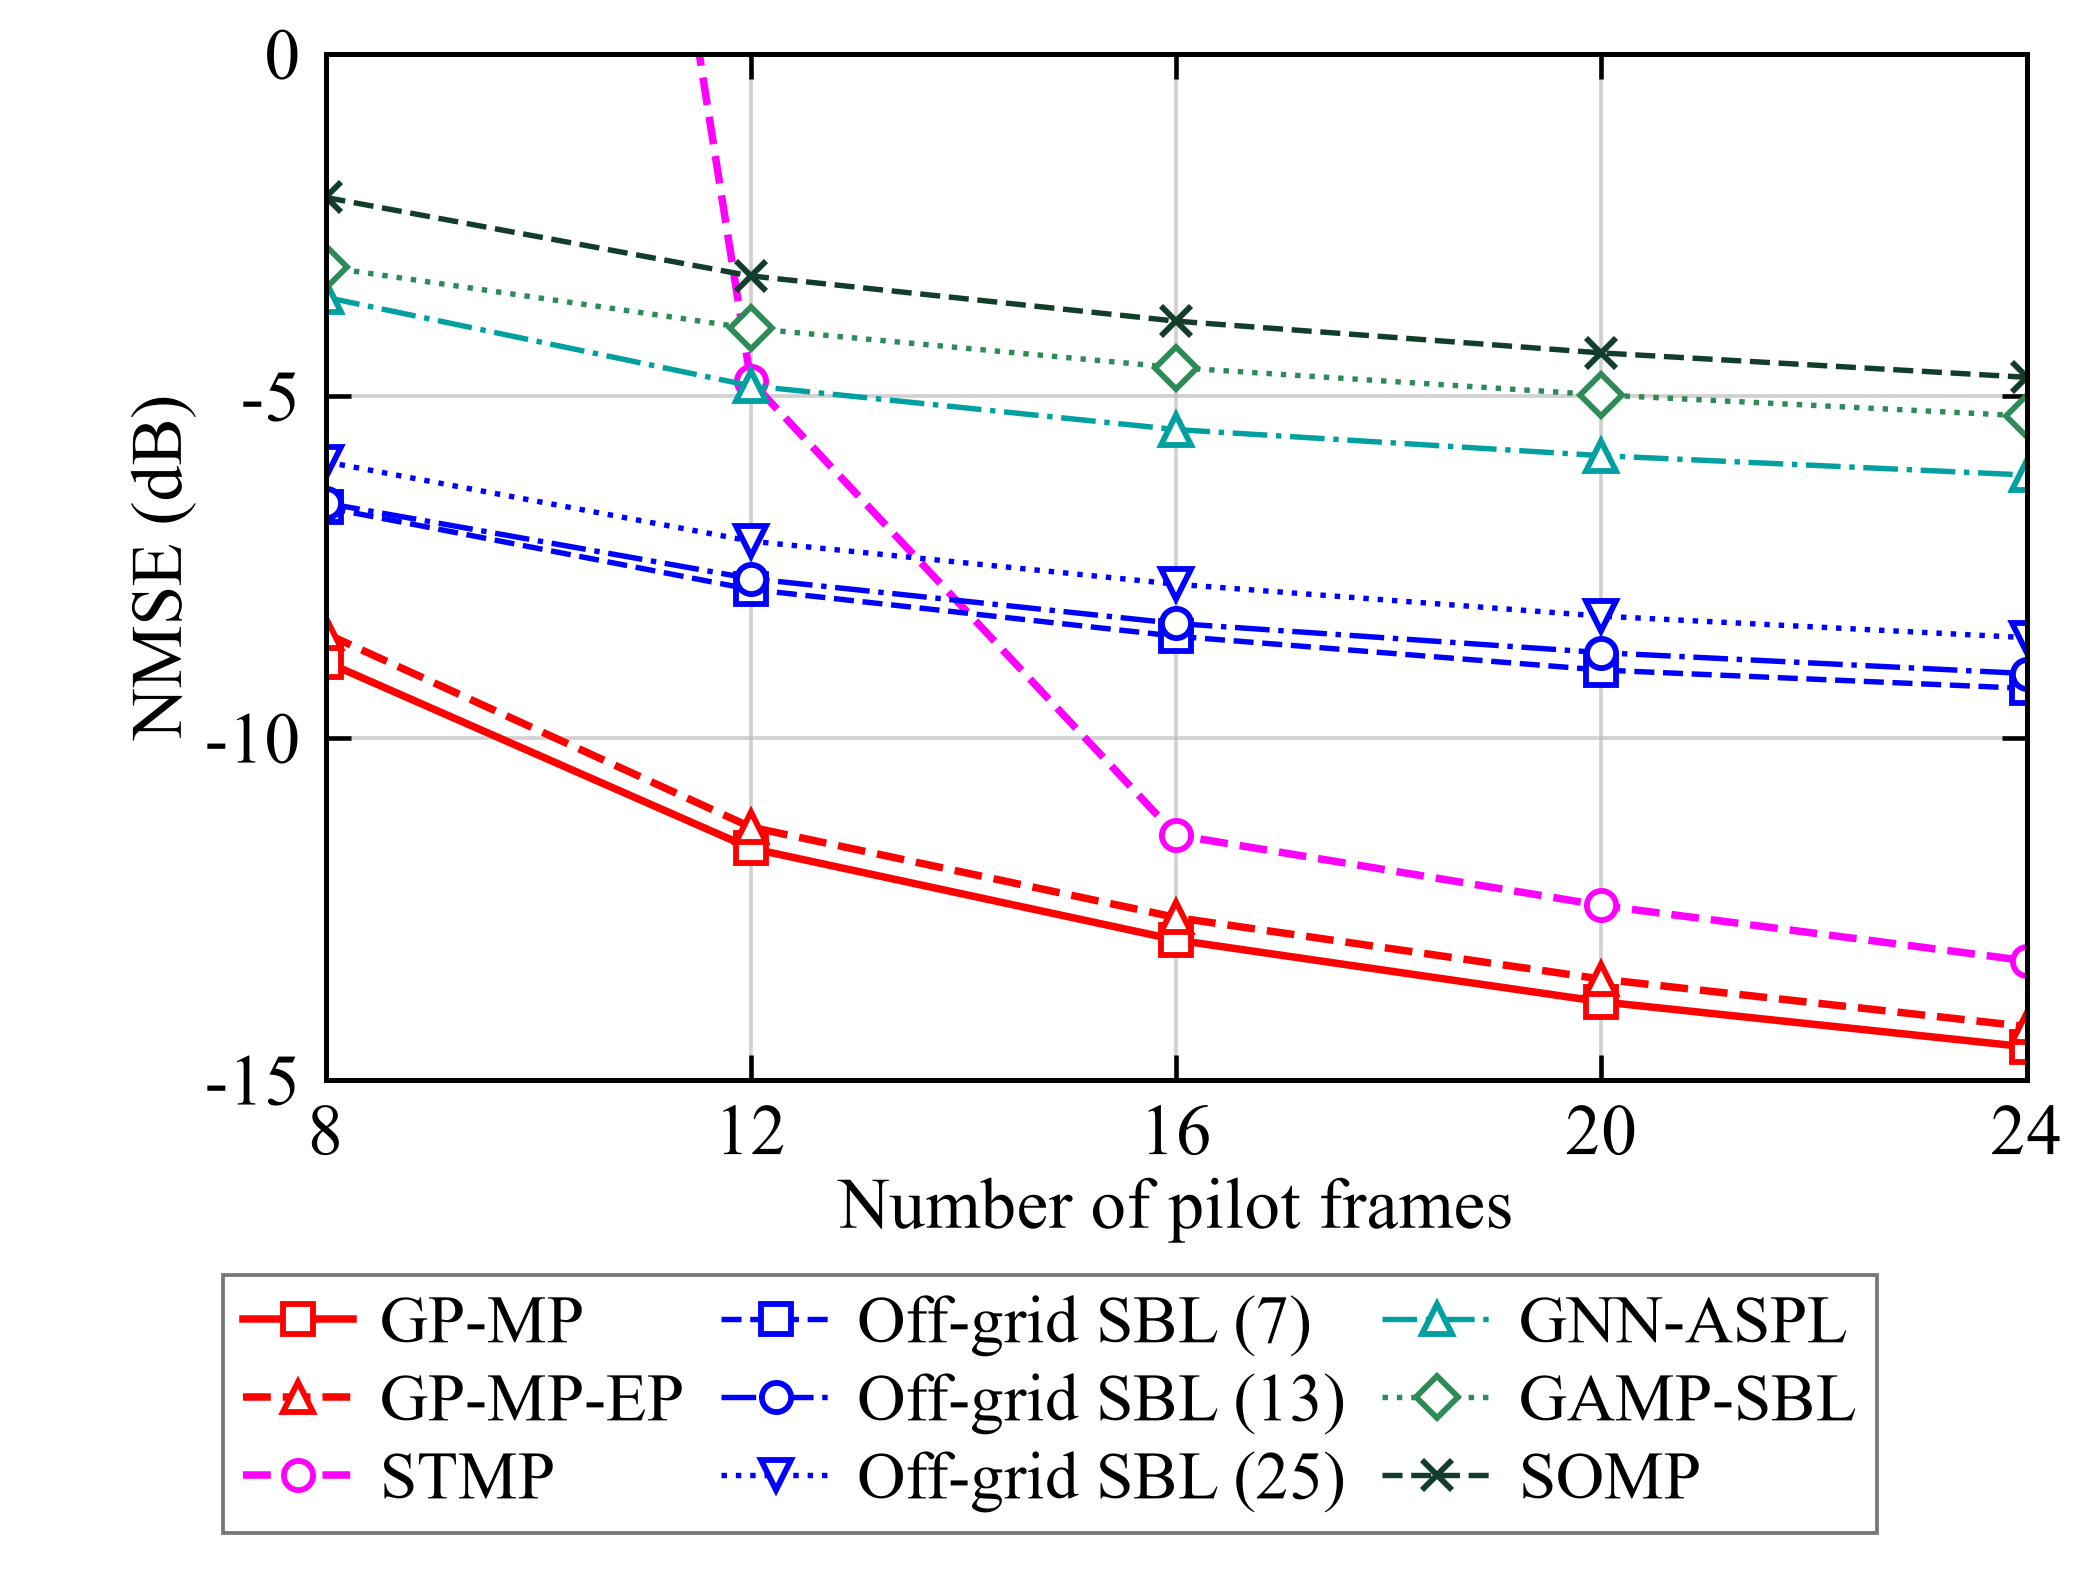
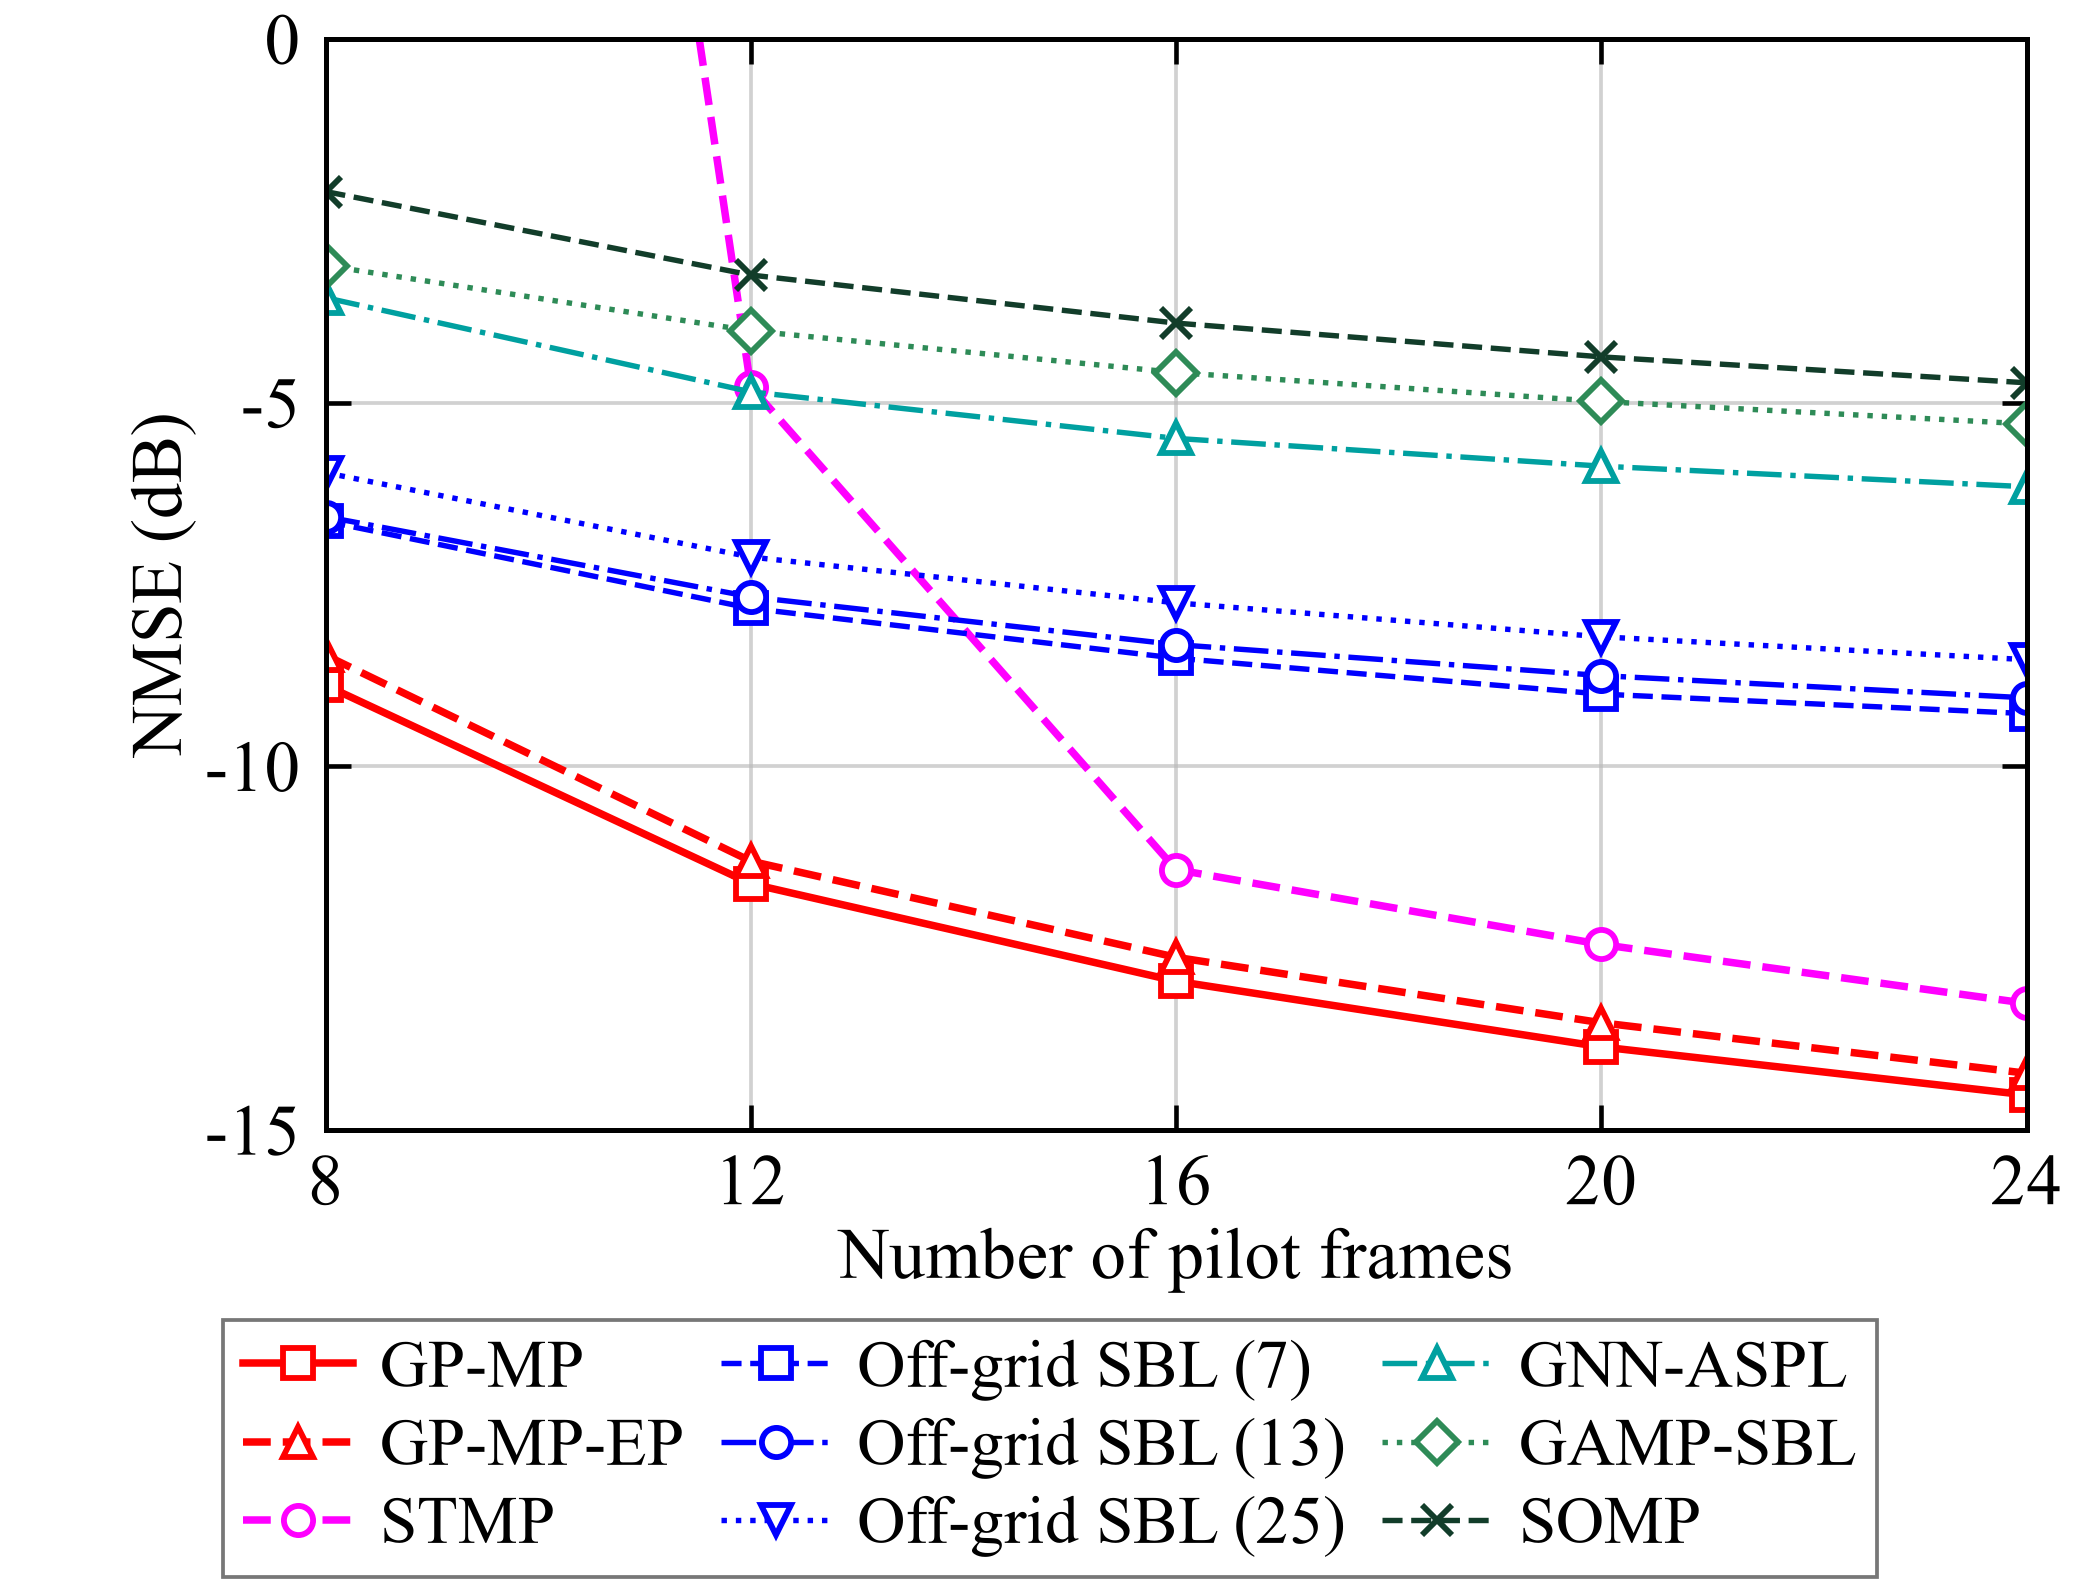
Align sweep figure spacing with main SNR

diff --git a/result/pilot_frames/latest_20261109/render.py b/result/pilot_frames/latest_20261109/render.py
@@ -37,9 +37,9 @@ def main():
     for legend in list(fig.legends):
         legend.remove()
     # Match the main SNR figure's three-column legend and handle spacing.
-    fig.subplots_adjust(bottom=.85/2.65)
+    fig.subplots_adjust(left=.155, right=.965, bottom=.28925023748689727, top=.9754716981132076)
     fig.legend(*ax.get_legend_handles_labels(),loc='lower center',
-               bbox_to_anchor=(.5,.015),ncol=3,
+               bbox_to_anchor=(.5,.008),ncol=3,borderaxespad=0,
                **dict(engine.LEGEND, **all_cfg['snr_comparison']['legend_style']))
     engine.validate(fig, curves, cfg)
     OUT.mkdir(exist_ok=True)
